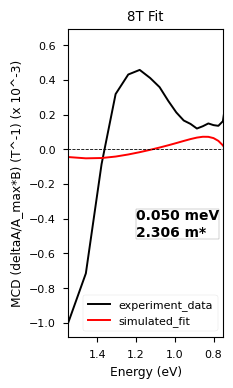
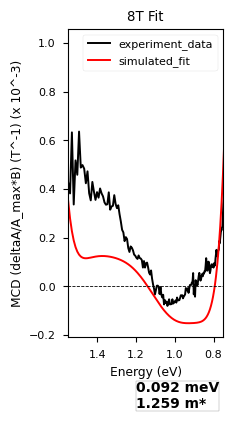
added mcd_difference.html with code tests

diff --git a/mcd/fitting/mcd_difference.html b/mcd/fitting/mcd_difference.html
@@ -2,14 +2,17 @@
 <html lang='en'>
 <head>
 <base target="_blank"/>
-<title>MCD 20201111 Report</title>
+<title>MCD 03-15-2021, Both Max Signals Report</title>
 </head>
 <body>
-<h1>MCD 20201111 Report</h1>
+<h1>MCD 03-15-2021, Both Max Signals Report</h1>
 <div>
-<img src="raw_mcd.png" />
-<img src="avg_mcd.png" />
-<img src="diff_mcd.png" />
+<img src="raw_mcd_sample.png" />
+<img src="raw_mcd_blank.png" />
+<img src="avg_mcd_sample.png" />
+<img src="avg_mcd_blank.png" />
+</div>
+<div><img src="avg_mcd_sub_test3.png" />
 <img src="smooth_abs.png" />
 </div>
 <div><img src="2T_fit.png" />

diff --git a/mcd/fitting/mcd_full_fitting_routine_test.py b/mcd/fitting/mcd_full_fitting_routine_test.py
@@ -73,9 +73,9 @@ def plot_mcd(dic,op='avg',x_axis='Energy (eV)',title='[PH]',xdata='energy',ydata
     if x_axis=='Energy (eV)':
         plt.xlabel(x_axis)
     if op=='raw':
-        plt.title("Raw MCD")
+        plt.title("Raw MCD " + title)
     if op=='avg':
-        plt.title("Averaged MCD")
+        plt.title("Averaged MCD " + title)
     plt.ylabel('MCD (mdeg)')
     plt.xlim(1.55,.75)
     plt.style.use('seaborn-paper')
@@ -178,16 +178,16 @@ def plot_abs(df,op='smooth',x_axis='energy'):
     fig,ax=plt.subplots(figsize=(4,2))
     if x_axis=='energy':
         plt.xlabel('Energy (eV)')
-    # if op=='raw':
-    #     plt.title("Raw Absorbance")
-    #     sns.lineplot(data=df,x='energy',y='absorbance',c='Black')
+    if op=='raw':
+        plt.title("Raw Absorbance")
+        sns.lineplot(data=df,x='energy',y='absorbance',color='Black')
     if op=='smooth':
         plt.title("Smoothed Absorbance")
         sns.lineplot(data=df,x='energy',y='smoothed_absorbance',color='Black')
     plt.ylabel('Absorbance (a.u.)')
     plt.xlim(2.0,0.75)
     plt.style.use('seaborn-paper')
-    plt.savefig(op + '_abs',dpi=100,transparent=True,bbox_inches='tight')
+    plt.savefig(op + '_abs',dpi=200,transparent=False,bbox_inches='tight')
     plt.show()
 
 def plot_CP_diff(x,y,ev=0.04): #function to visually show separation of LCP and RCP from base abs
@@ -221,43 +221,44 @@ def func(x,ev): #define simulated mcd function from absorbance spectrum
     coeff=poly.polyfit(df_abs['energy'],df_abs['absorbance'],9) #find polynomial coeffs from original absorption spectra
     LCP=poly.polyval(x+ev,coeff) #find y from +ev shifted LCP spectrum
     RCP=poly.polyval(x-ev,coeff) #find y from -ev shifted RCP spectrum
-    return LCP-RCP #return y from LCP-RCP
+    return RCP-LCP #return y from LCP-RCP, Note: may need to flip this depending on spectrum
 
 def calc_effective_mass_and_plot(abs_fit,diff_dic):
     ev_list=[]
     m_list=[]
     for field in diff_dic.keys():
-        xdata=diff_dic[field]['energy'] 
-        ydata=diff_dic[field]['mdeg']
-        ydata_normalized=ydata/np.max(np.absolute(ydata))
-        popt,pcov = optimize.curve_fit(func,xdata,ydata_normalized,bounds=(0,1)) #lsf optimization to spit out ev
+        if field is not '0':
+            xdata=diff_dic[field]['energy'] 
+            ydata=diff_dic[field]['sub_test_zero_subtracted']
+            ydata_normalized=ydata/np.max(np.absolute(ydata))
+            popt,pcov = optimize.curve_fit(func,xdata,ydata_normalized,bounds=(0,1)) #lsf optimization to spit out ev
 
-        ev=popt[0] #return minimzed ev to variable
-        ev_list.append(ev) #add ev to list
-        c=299792458 #speed of light (m/s)
-        e=1.60217662E-19 #charge of electron (C)
-        m_e=9.10938356E-31 #mass of electron (kg)
-        w_c=c/(1240/(ev/1000)*(10**-9)) #cyclotron resonance frequency
-        effective_mass=e/w_c/2/m_e/math.pi #effective mass (m*/m_e), removed field scaling for now
-        m_list.append(effective_mass) #add m* to list
+            ev=popt[0] #return minimzed ev to variable
+            ev_list.append(ev) #add ev to list
+            c=299792458 #speed of light (m/s)
+            e=1.60217662E-19 #charge of electron (C)
+            m_e=9.10938356E-31 #mass of electron (kg)
+            w_c=c/(1240/(ev/1000)*(10**-9)) #cyclotron resonance frequency
+            effective_mass=e/w_c/2/m_e/math.pi #effective mass (m*/m_e), removed field scaling for now
+            m_list.append(effective_mass) #add m* to list
 
-        fig,ax=plt.subplots(figsize=(2,4))
-        plt.title(str(field) + 'T Fit')
-        plt.ylabel('MCD (deltaA/A_max*B) (T^-1) (x 10^-3)')
-        plt.xlabel('Energy (eV)')
-        plt.xlim(1.55,0.75)
-        plt.plot(xdata,ydata_normalized,label='experiment_data',c='Black')
-        plt.plot(xdata,[func(x,*popt) for x in xdata],label='simulated_fit',c='Red')
-        baseline = lines.Line2D(range(6),np.zeros(1),c='black',ls='--',lw=0.6) #draw baseline at 0T
-        ax.add_line(baseline) #add baseline to plot
-        plt.legend(loc='lower right')
-        plt.text(1.2,-0.5,'%.3f meV\n%.3f m*' % (ev,effective_mass),fontweight='bold',bbox={'facecolor':'white','alpha':0.5,'pad':0.1})
-        plt.savefig(str(field) + "T_fit",dpi=100,transparent=True,bbox_inches='tight')
+            fig,ax=plt.subplots(figsize=(2,4))
+            plt.title(str(field) + 'T Fit')
+            plt.ylabel('MCD (deltaA/A_max*B) (T^-1) (x 10^-3)')
+            plt.xlabel('Energy (eV)')
+            plt.xlim(1.55,0.75)
+            plt.plot(xdata,ydata_normalized,label='experiment_data',c='Black')
+            plt.plot(xdata,[func(x,*popt) for x in xdata],label='simulated_fit',c='Red')
+            baseline = lines.Line2D(range(6),np.zeros(1),c='black',ls='--',lw=0.6) #draw baseline at 0T
+            ax.add_line(baseline) #add baseline to plot
+            plt.legend(loc=0)
+            plt.text(1.2,-0.5,'%.3f meV\n%.3f m*' % (ev,effective_mass),fontweight='bold',bbox={'facecolor':'white','alpha':0.5,'pad':0.1})
+            plt.savefig(str(field) + "T_fit",dpi=100,transparent=False,bbox_inches='tight')
     average_ev = np.mean(ev_list)
     std_dev_ev = np.std(ev_list)
     average_m = np.mean(m_list)
     std_dev_m = np.std(m_list)
-    return average_ev, std_dev_ev, average_m, std_dev_m
+    return average_ev, std_dev_ev, average_m, std_dev_m, ev_list, m_list
 
 def openHTML(f,title):
     f.write("<!DOCTYPE html>\n")
@@ -302,12 +303,40 @@ def writeHTMLfile(file_name):
     f.write('<p>The average effective mass (<i>m*</i>) is  <b>%.3f</b> \u00B1 %.4f.</p>' % (average_m,std_dev_m))
     closeHTML(f)
 
-    ##-----Functional Code Below-----##
+def writeHTMLfile_difference(file_name,report_date):
+    f=open(file_name,'w')
+    openHTML(f,'MCD ' + report_date + ' Report')
+    writeHTMLspacer(f,'<div>\n')
+    writeHTMLimage(f,'raw_mcd','raw_mcd_sample.png')
+    writeHTMLimage(f,'raw_mcd','raw_mcd_blank.png')
+    writeHTMLimage(f,'avg_mcd','avg_mcd_sample.png')
+    writeHTMLimage(f,'avg_mcd','avg_mcd_blank.png')
+    writeHTMLspacer(f,'</div>\n<div>')
+    writeHTMLimage(f,'diff_mcd','avg_mcd_sub_test3.png')
+    writeHTMLimage(f,'smooth_abs','smooth_abs.png')
+    writeHTMLspacer(f,'</div>\n<div>')
+    #These next few most certainly deserve a loop... I'll get around to it eventually...
+    writeHTMLimage(f,'2T_fit','2T_fit.png')
+    writeHTMLimage(f,'4T_fit','4T_fit.png')
+    writeHTMLimage(f,'6T_fit','6T_fit.png')
+    writeHTMLimage(f,'8T_fit','8T_fit.png')
+    writeHTMLimage(f,'10T_fit','10T_fit.png')
+    writeHTMLspacer(f,'</div>\n')
+    f.write('<p><u>From the above data:</u></p>')
+    f.write('<p>The average Zeeman splitting energy is <b>%.3f</b> \u00B1 %.4f meV.</p>' % (average_ev,std_dev_ev))
+    f.write('<p>The average effective mass (<i>m*</i>) is  <b>%.3f</b> \u00B1 %.4f.</p>' % (average_m,std_dev_m))
+    closeHTML(f)
+
+
+
+
+'''-------------------------------FUNCTIONAL CODE BELOW-------------------------------'''
+
 
 '''parse all data files'''
 #Change these pathways if using from GitHub.
-raw_mcd_dic = parse_mcd("/mnt/c/users/roflc/Desktop/MCD 03-15-21 v2/") #raw mcd data in dictionary
-df_abs = parse_abs("/mnt/c/users/roflc/Desktop/ABS 03-15-21/") #calculated abs data in dataframe
+raw_mcd_dic = parse_mcd("/mnt/c/Users/roflc/Desktop/MCD 03-15-21 v2/") #raw mcd data in dictionary
+df_abs = parse_abs("/mnt/c/Users/roflc/Desktop/ABS 03-15-21/") #calculated abs data in dataframe
 
 '''perform mcd experimental data operations'''
 plot_mcd(raw_mcd_dic,'raw',title='sample') #plot raw experimental mcd data
@@ -317,12 +346,12 @@ plot_mcd(df_avgs,'avg',title='sample')
 # plot_diff_mcd(df_diff)
 
 '''perform mcd difference calculation'''
-raw_mcd_dic_blank = parse_mcd("/mnt/c/users/roflc/Desktop/MCD 03-15-21 Blank/")
+raw_mcd_dic_blank = parse_mcd("/mnt/c/Users/roflc/Desktop/MCD 03-15-21 Blank/")
 plot_mcd(raw_mcd_dic_blank,'raw',title='blank')
 df_blank_avgs = calc_raw_avg_mcd(raw_mcd_dic_blank)
 plot_mcd(df_blank_avgs,'avg',title='blank')
 
-# make this a function, finds diff between sample and blank.
+# make this a function, finds diff between sample and blank only.
 diff_df={}
 for name, df in df_avgs.items():
     for df_blank in df_blank_avgs.values():
@@ -331,7 +360,8 @@ for name, df in df_avgs.items():
         diff_df[name]['energy'] = df['energy'] #fix energy
         diff_df[name]['field'] = df['field'] #fix field
         diff_df[name]['wavelength'] = df['wavelength'] #fix wavelength
-plot_mcd(diff_df,'avg',title='diff')
+        diff_df[name]['zero_subtracted'] = diff_df[name]['mdeg'] - diff_df['0']['mdeg']
+plot_mcd(diff_df,'avg',title='diff_0T_subbed',ydata='zero_subtracted')
 
 # make this a function, finds diff between sample and blank using total PEM signal.
 all_pem_channels_added_diff_df={}
@@ -348,20 +378,14 @@ for name, df in df_avgs.items():
         all_pem_channels_added_diff_df[name]['sub_test_zero_subtracted'] = (all_pem_channels_added_diff_df[name]['sub_test'] - all_pem_channels_added_diff_df['0']['sub_test']) * 32982
 plot_mcd(all_pem_channels_added_diff_df,'avg',title='sub_test3',ydata='sub_test_zero_subtracted')
 
-sys.exit()
-
-# for name, df in dic.items():
-#         df_diff[name] = pd.DataFrame()
-#             if op=='add':
-#                 df_diff[name] = df + dic['-' + name] #add positive and negative dictionary entries
-#                 df_diff[name]['energy'] = df['energy'] #fix energy back to original values
-#                 df_diff[name]['field'] = df['field'] #fix field back to original values
-
 '''perform absorbance simulation data fitting operations'''
+plot_abs(df_abs,op='raw')
 plot_abs(df_abs)
+
 fit_diff=plot_CP_diff(df_abs['energy'],df_abs['absorbance'])
-average_ev, std_dev_ev, average_m, std_dev_m = calc_effective_mass_and_plot(fit_diff,df_diff)
+average_ev, std_dev_ev, average_m, std_dev_m, ev_list, m_list = calc_effective_mass_and_plot(fit_diff,all_pem_channels_added_diff_df)
 
 '''write HTML file report'''
-writeHTMLfile('mcd.html')
+# writeHTMLfile('mcd.html','11-11-2020')
+writeHTMLfile_difference('mcd_difference.html','03-15-2021, Both Max Signals')
  

diff --git a/raman/read_spe_test.py b/raman/read_spe_test.py
@@ -1,0 +1,14 @@
+import numpy as np
+import pandas as pd 
+from tkinter import filedialog
+import matplotlib.pyplot as plt
+import os 
+import glob
+import csv
+import itertools
+from pyspec.ccd.files import PrincetonSPEFile
+
+initialdir='/mnt/c/Users/roflc/Downloads/Solidstate/Raman/514.5nm/Redux/BLANK4R.ASC' #assign a directory 
+
+f=PrincetonSPEFile(initialdir)
+f.getData()
